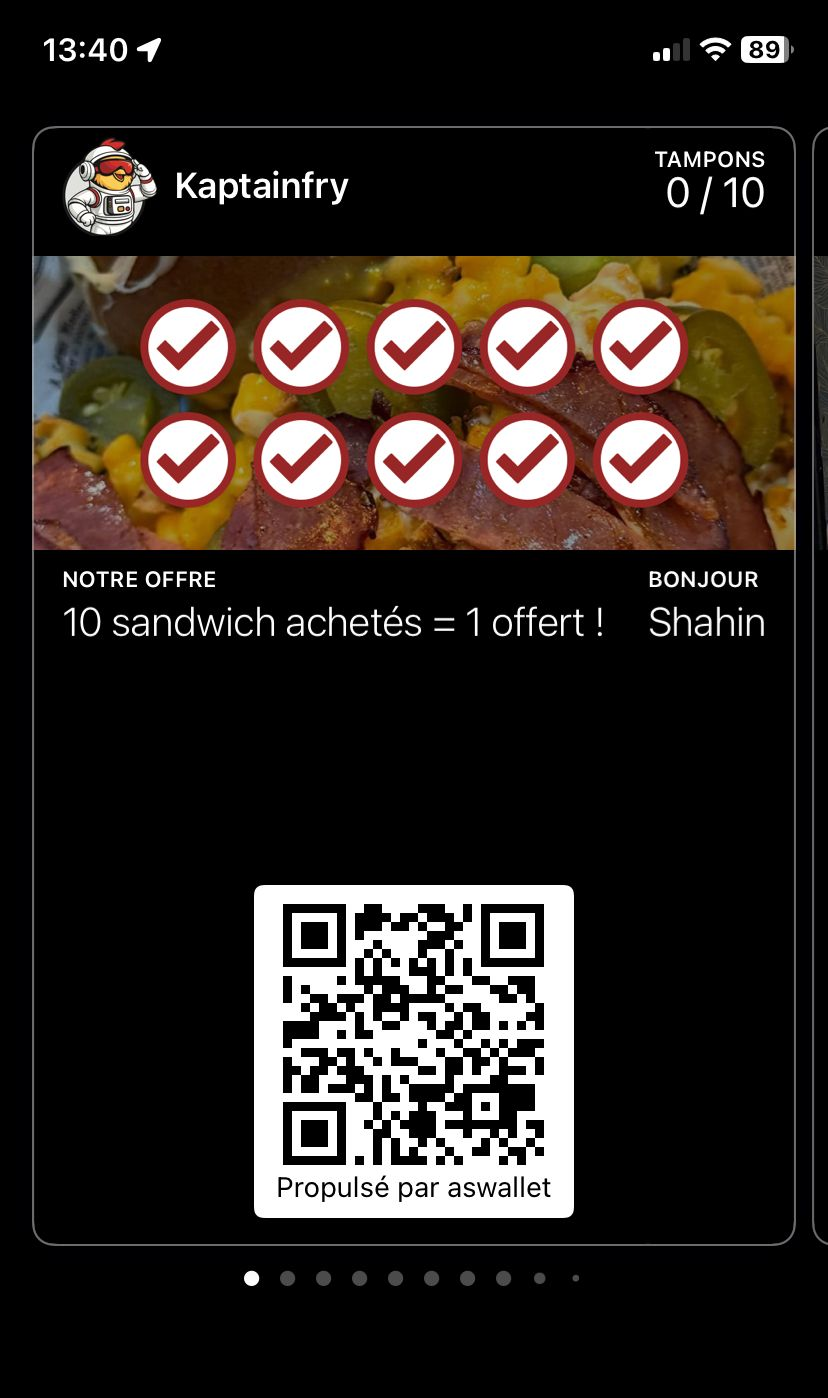
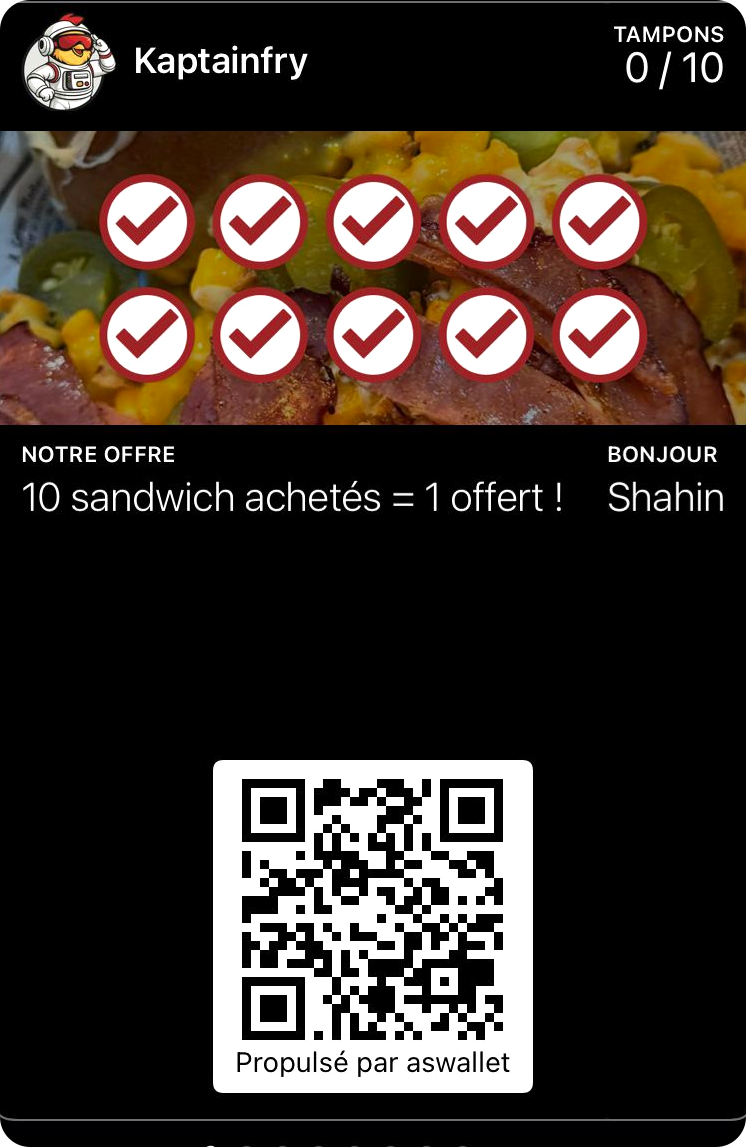
Polish des captures wallet : crop tight sur carte, plus de bezel iPhone
Reproches user :
- 'elle sont moche un peu les mienne'
- 'garde 80% de la capture'

Polish via sharp :
- Crop tight (~64% vertical au lieu de 78%) : drop la status bar
  '13:53' (look 'screenshot perso'), drop le bezel iPhone noir,
  drop l'indicateur 'Acheter en ligne' + dots de pagination → reste
  uniquement la carte Apple Wallet pure (zone 'utile' de la capture)
- Crop sides ~5% chaque côté : enlève la marge noire iPhone
- Saturation +8% / brightness +3% : la carte pop davantage sur la LP
- Coins legerement arrondis via mask SVG (rx=4% width) : pas de pixels
  durs sur les bords coupes

Dimensions finales : 746×1147 (au lieu de 828×1398).

HeroMockup.tsx :
- Retire le wrapping `rounded-[32px] overflow-hidden ring-1` (les coins
  sont déjà dans le PNG)
- Remplace par drop-shadow CSS pour faire ressortir la carte sur le
  fond beige : 25px blur sombre + 10px blur plus subtile = effet
  'flottant premium'
- Width=746 height=1147 dans <Image /> pour match les nouvelles dims

diff --git a/src/components/landing/HeroMockup.tsx b/src/components/landing/HeroMockup.tsx
@@ -10,6 +10,14 @@ import Image from "next/image";
  * suffit — pas de frame iPhone supplémentaire qui ferait double.
  */
 
+/**
+ * Cartes polish via scripts/polish-wallet-captures.mjs : tight crop sur la
+ * carte (no status bar, no bezel, no indicators), saturation +8%, coins
+ * légèrement arrondis. Taille finale 746×1147 (ratio ~0.65).
+ *
+ * Affichage : ombre portée prononcée + halo accent autour pour faire
+ * ressortir la carte sur le fond beige de la LP.
+ */
 function WalletCard({
   src,
   alt,
@@ -21,13 +29,17 @@ function WalletCard({
 }) {
   return (
     <div
-      className={`relative rounded-[32px] overflow-hidden shadow-[0_30px_60px_-15px_rgba(0,0,0,0.45)] ring-1 ring-black/20 ${className}`}
+      className={`relative ${className}`}
+      style={{
+        filter:
+          "drop-shadow(0 25px 50px rgba(0,0,0,0.25)) drop-shadow(0 10px 20px rgba(0,0,0,0.12))",
+      }}
     >
       <Image
         src={src}
         alt={alt}
-        width={828}
-        height={1398}
+        width={746}
+        height={1147}
         className="w-full h-auto"
         priority
       />
